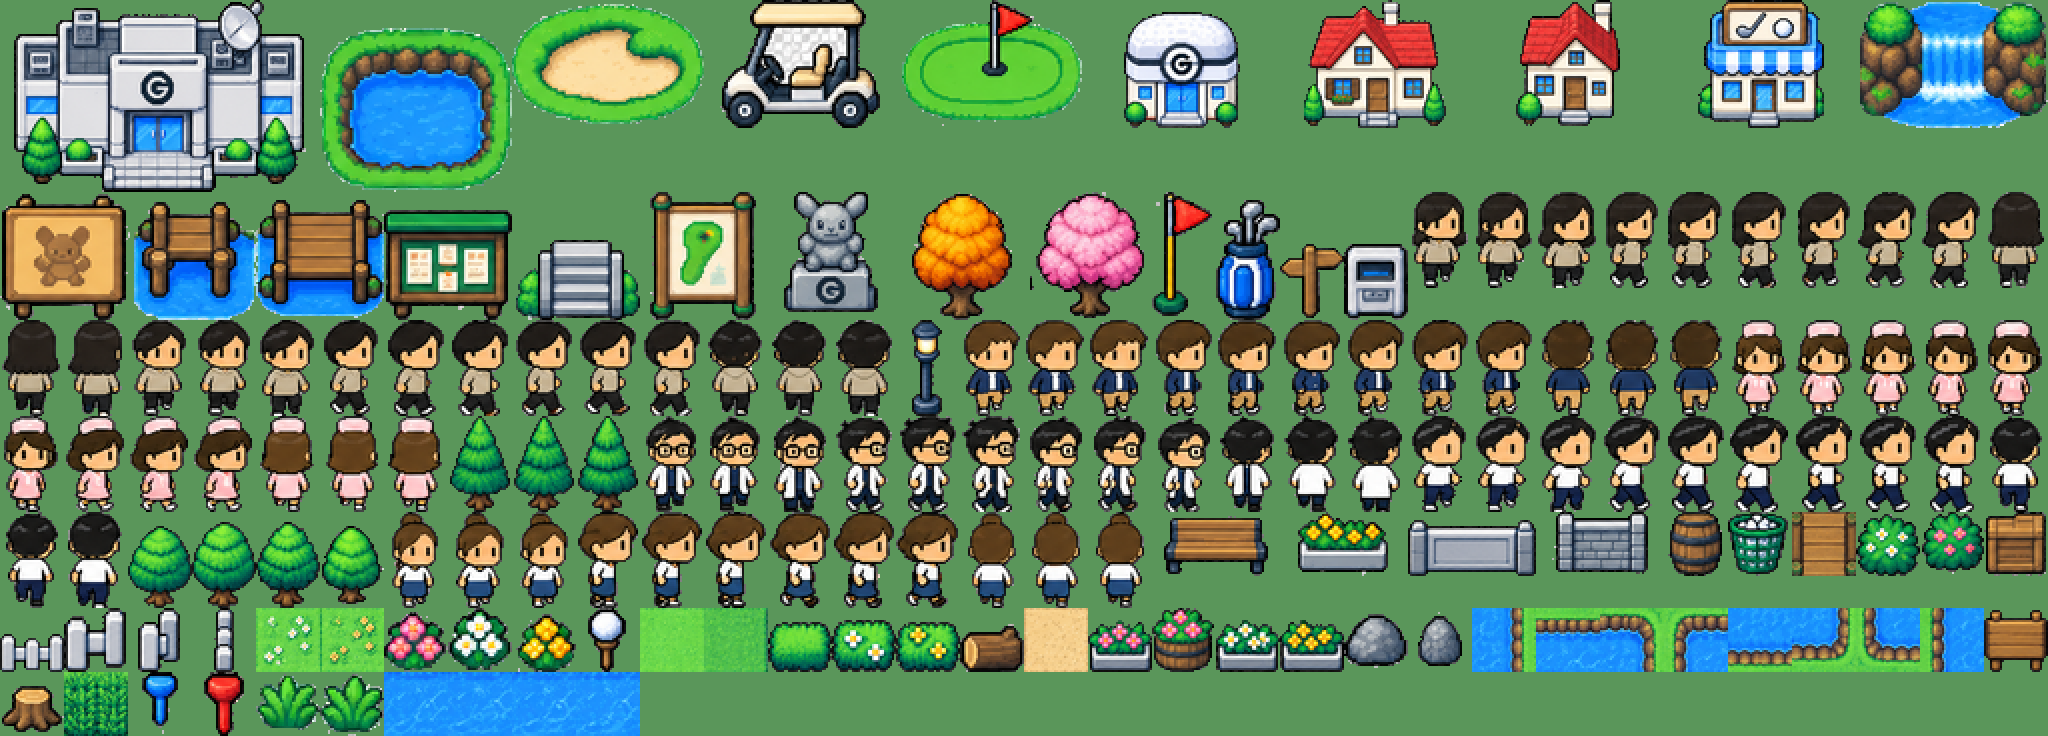
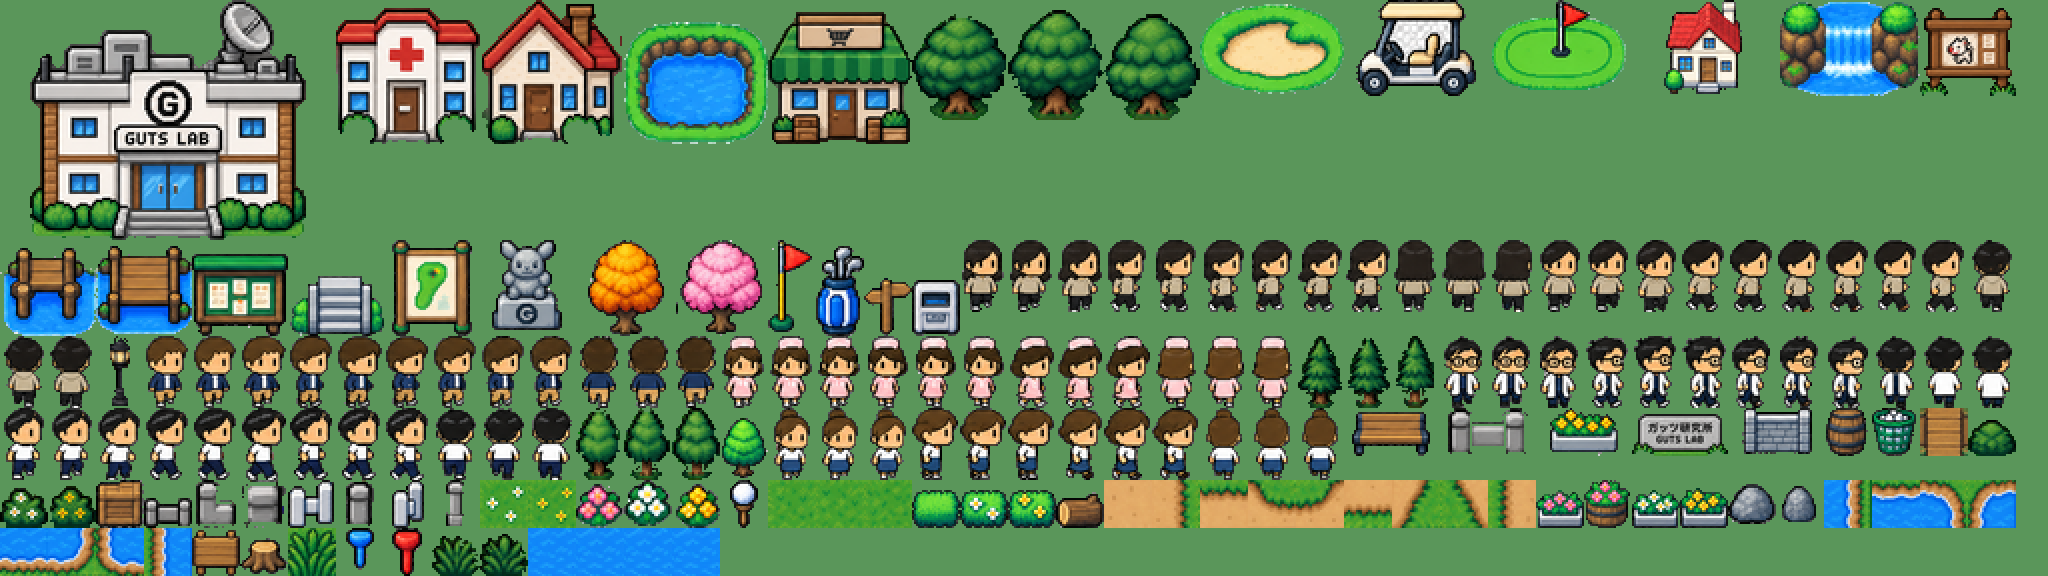
v0.6: 第2弾素材（研究所7×5・家3×3・大木・石の柵・道の境界タイル・新地形）を組み込み。屋外1マス12で横16マス表示、ガーデンロードを横18に拡張
Claude-Session: https://claude.ai/code/session_018VDSYCPciSbMvR8kKaJDnr

diff --git a/js/data.js b/js/data.js
@@ -80,7 +80,7 @@ const DATA = {
         'XXXXXXXXXX',
       ],
       events: [
-        { x: 5, y: 6, kind: 'warp', to: { map: 'town', x: 2, y: 10, dir: 'down' } },
+        { x: 5, y: 6, kind: 'warp', to: { map: 'town', x: 2, y: 11, dir: 'down' } },
         { x: 2, y: 1, kind: 'look', text: 'じぶんの ベッド。\nきょうは よく ねむれた。' },
         { x: 7, y: 1, kind: 'look', text: 'テレビ。ゴルフ中継が ながれている。' },
         { x: 2, y: 3, kind: 'look', text: 'つくえ。ゴルフの スコアカードが おいてある。' },
@@ -91,49 +91,54 @@ const DATA = {
       name: 'ガッツタウン', bgm: 'town',
       rows: [
         'YYYYYYYYYYYYYYYYPYYY',
-        'YGWFWGGGGGfGFgGGPGGY',
-        'YGGGGGGGGGGGGGGGPWGY',
-        'YG===GGGGGGGG===PGGY',
-        'YGGGGGGGPGGGGGGGPGGY',
-        'YGWGQqGGPGGLSGGGPWGY',
-        'YGGLGGGGPGGGGGLGPGGY',
-        'YgPPPPPPPPPPPPPPPPGY',
+        'YGGFGGGGGGGGFgGGPGGY',
+        'YGGGGGGGGGGGGGGGPGGY',
+        'YGGGGGGGGGGGGGGGPGGY',
+        'YGG==GGGGGGGGG==PGGY',
+        'YGGLGGGGGGGGGGLGPGGY',
+        'YGWGQqGGGPGGLSGGPWGY',
+        'YgPGPPPPPPPPPPPPPPGY',
         'YGGGGGPGGGGGGGGGGGGY',
         'YGGGGGPGGGGGWGGGGGYY',
+        'YGGGGGPGGGGGGGGGGGGY',
         'YGPGGGPGGGGGGGGPGGGY',
-        'YGPGGGPGGPGGGGGPGGGY',
         'YGPPPPPPPPPPPPPPPPGY',
         'YFFGGGGolGGGGGGGGGGY',
         'YGGWGfGGGGGGbGGGGWGY',
-        'YYGGGGGGGGGGGGGGGGGY',
+        'YYGGgGGGGGGGGGGGgGGY',
         'YGbGGGkGGtGGFGGtfGGY',
-        'YGGGWGGFGGGWGRGGGWGY',
+        'YYGGGGGFGGfWGRGGGWGY',
         'YGGGGGGGGGGGGGGGGGGY',
         'YYYYYYYYYYYYYYYYYYYY',
       ],
       objects: [
-        { art: 'lab',   x: 6,  y: 1,  w: 5, h: 3, doors: [{ x: 8, y: 3 }] },
-        { art: 'house', x: 1,  y: 8,  w: 3, h: 2, doors: [{ x: 2, y: 9 }] },
-        { art: 'heal',  x: 14, y: 8,  w: 3, h: 2, doors: [{ x: 15, y: 9 }] },
-        { art: 'shop',  x: 8,  y: 9,  w: 3, h: 2, doors: [{ x: 9, y: 10 }] },
+        { art: 'lab',   x: 6,  y: 1,  w: 7, h: 5, doors: [{ x: 9, y: 5 }] },
+        { art: 'house', x: 1,  y: 8,  w: 3, h: 3, doors: [{ x: 2, y: 10 }] },
+        { art: 'heal',  x: 14, y: 8,  w: 3, h: 3, doors: [{ x: 15, y: 10 }] },
+        { art: 'shop',  x: 8,  y: 9,  w: 3, h: 3, doors: [{ x: 9, y: 11 }] },
         { art: 'pond',  x: 13, y: 13, w: 3, h: 3 },
-        { art: 'board_monster', x: 13, y: 5, w: 2, h: 2 },
+        { art: 'board_monster', x: 14, y: 5, w: 2, h: 2 },
         { art: 'bench', x: 3, y: 13, w: 2, h: 1 },
+        { art: 'bigtree', x: 1, y: 1, w: 2, h: 2 },
+        { art: 'bigtree2', x: 17, y: 1, w: 2, h: 2 },
+        { art: 'bigtree3', x: 4, y: 2, w: 2, h: 2 },
+        { art: 'bigtree', x: 9, y: 14, w: 2, h: 2 },
+        { art: 'bigtree2', x: 17, y: 12, w: 2, h: 2 },
       ],
       events: [
-        { x: 2, y: 9, kind: 'warp', to: { map: 'home', x: 5, y: 5, dir: 'up' } },
-        { x: 8, y: 3, kind: 'warp', to: { map: 'lab', x: 5, y: 5, dir: 'up' } },
-        { x: 15, y: 9, kind: 'warp', to: { map: 'heal', x: 4, y: 4, dir: 'up' } },
-        { x: 9, y: 10, kind: 'warp', to: { map: 'shop', x: 4, y: 4, dir: 'up' } },
-        { x: 16, y: 0, kind: 'warp', to: { map: 'road', x: 7, y: 20, dir: 'up' } },
-        { x: 4, y: 5, kind: 'sign', text: 'ガッツ研究所 GUTS LAB' },
-        { x: 5, y: 5, kind: 'sign', text: 'ガッツ研究所 GUTS LAB' },
-        { x: 12, y: 5, kind: 'sign', text: 'ガッツタウン\nゴルフ場の となりの しずかな町' },
-        { x: 13, y: 6, kind: 'look', text: 'モンスターと ゴルフの みらいを けんきゅうする\n―― ガッツ研究所' },
+        { x: 2, y: 10, kind: 'warp', to: { map: 'home', x: 5, y: 5, dir: 'up' } },
+        { x: 9, y: 5, kind: 'warp', to: { map: 'lab', x: 5, y: 5, dir: 'up' } },
+        { x: 15, y: 10, kind: 'warp', to: { map: 'heal', x: 4, y: 4, dir: 'up' } },
+        { x: 9, y: 11, kind: 'warp', to: { map: 'shop', x: 4, y: 4, dir: 'up' } },
+        { x: 16, y: 0, kind: 'warp', to: { map: 'road', x: 9, y: 20, dir: 'up' } },
+        { x: 4, y: 6, kind: 'sign', text: 'ガッツ研究所 GUTS LAB' },
+        { x: 5, y: 6, kind: 'sign', text: 'ガッツ研究所 GUTS LAB' },
+        { x: 13, y: 6, kind: 'sign', text: 'ガッツタウン\nゴルフ場の となりの しずかな町' },
         { x: 14, y: 6, kind: 'look', text: 'モンスターと ゴルフの みらいを けんきゅうする\n―― ガッツ研究所' },
+        { x: 15, y: 6, kind: 'look', text: 'モンスターと ゴルフの みらいを けんきゅうする\n―― ガッツ研究所' },
         { x: 11, y: 8, kind: 'npc', sprite: 'woman', dir: 'down',
           text: '北の ガーデンロードには\nやせいの GUTS MONSTERSが いるのよ。' },
-        { x: 10, y: 15, kind: 'npc', sprite: 'man', dir: 'left',
+        { x: 11, y: 16, kind: 'npc', sprite: 'man', dir: 'left',
           text: 'ここの 芝は ゴルフ場と おなじ\n手入れを しているんだ。' },
         { x: 16, y: 1, kind: 'trigger', id: 'townExit' },
       ],
@@ -151,7 +156,7 @@ const DATA = {
         'XXXXXXXXXXXX',
       ],
       events: [
-        { x: 5, y: 6, kind: 'warp', to: { map: 'town', x: 8, y: 4, dir: 'down' } },
+        { x: 5, y: 6, kind: 'warp', to: { map: 'town', x: 9, y: 6, dir: 'down' } },
         { x: 5, y: 2, kind: 'npc', sprite: 'prof', dir: 'down', name: 'オクムラ博士', prof: true },
         { x: 4, y: 3, kind: 'starter', id: 'hinokapi', unless: 'starter' },
         { x: 5, y: 3, kind: 'starter', id: 'shibamog', unless: 'starter' },
@@ -172,7 +177,7 @@ const DATA = {
         'XXXXXXXXXX',
       ],
       events: [
-        { x: 5, y: 5, kind: 'warp', to: { map: 'town', x: 15, y: 10, dir: 'down' } },
+        { x: 5, y: 5, kind: 'warp', to: { map: 'town', x: 15, y: 11, dir: 'down' } },
         { x: 4, y: 2, kind: 'npc', sprite: 'nurse', dir: 'down', heal: true, name: 'うけつけ',
           text: 'ようこそ かいふくの いえへ。\nなかまを げんきに してあげますね。' },
       ],
@@ -189,7 +194,7 @@ const DATA = {
         'XXXXXXXXXX',
       ],
       events: [
-        { x: 5, y: 5, kind: 'warp', to: { map: 'town', x: 9, y: 11, dir: 'down' } },
+        { x: 5, y: 5, kind: 'warp', to: { map: 'town', x: 9, y: 12, dir: 'down' } },
         { x: 4, y: 2, kind: 'npc', sprite: 'woman', dir: 'down', name: 'てんいん', shop: true,
           text: 'いらっしゃい！\nきずぐすりなら さしあげますよ。（ショップは じゅんびちゅう）' },
       ],
@@ -197,28 +202,28 @@ const DATA = {
     road: {
       name: 'ガーデンロード', bgm: 'town',   // ※専用曲は未提供のため町の曲を仮使用
       rows: [
-        'YYYYYYYYYYYYYY',
-        'YGGGGGSPGGGGGY',
-        'YGGGGGGPGGFGGY',
-        'YGGWGGGPGGGGGY',
-        'YGTTTGGPGGWGGY',
-        'YGTTTGGPGTTTGY',
-        'YGTTTGGPGTTTGY',
-        'YGGGGGGPGTTTGY',
-        'YGFGGGGPGGGGGY',
-        'YGGGGGGPGGGGGY',
-        'Y~~~~~~B~~~~~Y',
-        'Y~~~~~~B~~~~~Y',
-        'YGGWGGGPGGGGGY',
-        'YGGGGGGPGGTTGY',
-        'YGTTTGGPGGTTGY',
-        'YGTTGGGPGGGGGY',
-        'YGGGGGGPGGWGGY',
-        'YGGGGGGPGGSGGY',
-        'YGFGGGGPGGGGGY',
-        'YGGGGGGPGGGGGY',
-        'YGGGGGGPGGGGGY',
-        'YYYYYYYPYYYYYY',
+        'YYYYYYYYYYYYYYYYYY',
+        'YGGGGGGGSPGGGGGGGY',
+        'YGGGGGGGGPGGFGGGGY',
+        'YGGGGWGGGPGGGGGGGY',
+        'YGGGTTTGGPGGWGGGGY',
+        'YGGGTTTGGPGTTTGGGY',
+        'YGGGTTTGGPGTTTGGGY',
+        'YGGGGGGGGPGTTTGGGY',
+        'YGGGFGGGGPGGGGGGGY',
+        'YGGGGGGGGPGGGGGGGY',
+        'Y~~~~~~~~B~~~~~~~Y',
+        'Y~~~~~~~~B~~~~~~~Y',
+        'YGGGGWGGGPGGGGGGGY',
+        'YGGGGGGGGPGGTTGGGY',
+        'YGGGTTTGGPGGTTGGGY',
+        'YGGGTTGGGPGGGGGGGY',
+        'YGGGGGGGGPGGWGGGGY',
+        'YGGGGGGGGPGGSGGGGY',
+        'YGGGFGGGGPGGGGGGGY',
+        'YGGGGGGGGPGGGGGGGY',
+        'YGGGGGGGGPGGGGGGGY',
+        'YYYYYYYYYYYYYYYYYY',
       ],
       encounters: [
         { id: 'hinokapi', level: [3, 5], weight: 3 },
@@ -226,10 +231,10 @@ const DATA = {
         { id: 'amepiyo',  level: [3, 5], weight: 3 },
       ],
       events: [
-        { x: 7, y: 21, kind: 'warp', to: { map: 'town', x: 16, y: 1, dir: 'down' } },
-        { x: 10, y: 17, kind: 'sign', text: 'ガーデンロード\n草むらに 注意' },
-        { x: 6, y: 1, kind: 'sign', text: 'この先は こうじちゅう\n（次のエリアは 未実装）' },
-        { x: 4, y: 9, kind: 'npc', sprite: 'man', dir: 'right',
+        { x: 9, y: 21, kind: 'warp', to: { map: 'town', x: 16, y: 1, dir: 'down' } },
+        { x: 12, y: 17, kind: 'sign', text: 'ガーデンロード\n草むらに 注意' },
+        { x: 8, y: 1, kind: 'sign', text: 'この先は こうじちゅう\n（次のエリアは 未実装）' },
+        { x: 6, y: 9, kind: 'npc', sprite: 'man', dir: 'right',
           text: '草むらで つかまえた モンスターは\nなかまに なるんだ。（捕獲は 未実装）' },
       ],
     },

diff --git a/js/scenes/field.js b/js/scenes/field.js
@@ -295,6 +295,14 @@ class FieldScene {
     if (n) return 'shore_n'; if (s) return 'shore_s'; if (wl) return 'shore_w'; if (e) return 'shore_e';
     return null;
   }
+  // 道の自動タイル：芝に接する辺・角で境界タイルを選ぶ
+  pathTile(tx, ty) {
+    const p = (x, y) => { const t = this.tileAt(x, y); return t === 'P' || t === 'B' || t === ' '; };
+    const n = !p(tx, ty - 1), s = !p(tx, ty + 1), w = !p(tx - 1, ty), e = !p(tx + 1, ty);
+    if (n && w) return 'path_nw'; if (n && e) return 'path_ne'; if (s && w) return 'path_sw'; if (s && e) return 'path_se';
+    if (n) return 'path_n'; if (s) return 'path_s'; if (w) return 'path_w'; if (e) return 'path_e';
+    return 'path';
+  }
   fenceTile(tx, ty) {
     const f = (x, y) => this.tileAt(x, y) === '=';
     const l = f(tx - 1, ty), r = f(tx + 1, ty);
@@ -338,6 +346,7 @@ class FieldScene {
         // 下地
         const base = DATA.ATLAS_BASE[t];
         if (base === 'water') { Atlas.draw(ctx, this.waterTile(tx, ty) || `water${waterFrame}`, px, py); }
+        else if (base === 'path') { const pt = this.pathTile(tx, ty); Atlas.draw(ctx, Atlas.has(pt) ? pt : 'path', px, py); }
         else if (base) Atlas.draw(ctx, base, px, py);
         else Atlas.draw(ctx, 'grass', px, py);
         // 上に載る小物（奥行き順）
@@ -353,7 +362,7 @@ class FieldScene {
     // 大きな建物・オブジェクト（足元の y で並べる）
     for (const o of (this.map.objects || [])) {
       const px = o.x * T - camX + bx, py = o.y * T - camY + by;
-      if (useAtlas && Atlas.has(o.art)) sprites.push({ y: (o.y + o.h) * T - 1, fn: () => Atlas.draw(ctx, o.art, px, py) });
+      if (useAtlas && Atlas.has(o.art)) { const sz = Atlas.size(o.art); const dy = (o.y + o.h) * T - camY + by - sz.h; sprites.push({ y: (o.y + o.h) * T - 1, fn: () => Atlas.draw(ctx, o.art, px, dy) }); }
       else ctx.drawImage(Gfx.get(o.art), px, py, o.w * T, o.h * T);
     }
     // イベント（ボール・NPC）

diff --git a/tools/smoke-test.js b/tools/smoke-test.js
@@ -67,7 +67,7 @@ const server = http.createServer((req, res) => {
   await page.evaluate(() => { Game.state.x = 16; Game.state.y = 3; Game.state.dir = 'up'; });
   await walk('up'); await walk('up'); await tap('a'); await page.waitForTimeout(400); await shot('09_blocked'); await advance();
   // 研究所へ
-  await page.evaluate(() => { Game.state.x = 8; Game.state.y = 4; Game.state.dir = 'up'; });
+  await page.evaluate(() => { Game.state.x = 9; Game.state.y = 6; Game.state.dir = 'up'; });
   await walk('up'); await page.waitForTimeout(400); await shot('10_lab'); console.log('lab:', await st()); await page.waitForTimeout(800); console.log('bgm@lab:', await snd()); await advance(40); await shot('10b_lab_after_intro');
   await walk('up'); await walk('up'); await tap('a'); await page.waitForTimeout(300); await shot('11_prof'); await advance();
   await walk('left'); await tap('a'); await page.waitForTimeout(600); await shot('12_starter_ask');
@@ -90,7 +90,7 @@ const server = http.createServer((req, res) => {
   // ガーデンロードへ
   await page.evaluate(() => { Game.state.x = 16; Game.state.y = 2; Game.state.dir = 'up'; });
   await walk('up'); await walk('up'); await page.waitForTimeout(300); await shot('22_road'); console.log('road:', await st());
-  await page.evaluate(() => { CONFIG.ENCOUNTER_RATE = 100; Game.state.grace = 0; Game.state.x = 2; Game.state.y = 3; Game.state.dir = 'down'; });
+  await page.evaluate(() => { CONFIG.ENCOUNTER_RATE = 100; Game.state.grace = 0; Game.state.x = 4; Game.state.y = 3; Game.state.dir = 'down'; });
   await walk('down'); await page.waitForTimeout(500); await shot('23_wild'); console.log('wild:', await st()); console.log('bgm@wild:', await snd());
   await finishBattle(); await advance(); console.log('after wild:', await st()); await page.waitForTimeout(600); console.log('bgm@after wild:', await snd());
   // 回復の家

diff --git a/js/config.js b/js/config.js
@@ -2,9 +2,9 @@
 // 基本設定
 // ============================================================
 const CONFIG = {
-  W: 192,            // フィールド内部解像度（12マス）
-  H: 208,            // 13マス
-  TILE: 16,          // 1マス（論理px）。素材は32pxで2倍描画
+  W: 192,            // フィールド内部解像度（屋外16マス）
+  H: 208,            // 屋外 約17マス
+  TILE: 12,          // 屋外1マス（論理px）。素材は24pxで2倍描画。画面は横16マス
   TILE_INDOOR: 16,
   FPS: 60,
   WALK_FRAMES: 8,

diff --git a/tools/extract-atlas.py b/tools/extract-atlas.py
@@ -6,11 +6,15 @@ sys.path.insert(0, os.path.dirname(os.path.abspath(__file__)))
 from PIL import Image
 import numpy as np
 from cut import keyout
+from cut2 import keyout_dark, keyout_blur
 
-U = int(os.environ.get('TILE_PX', '32'))   # 1タイルのpx（画面は2倍描画なので論理px = U/2）
+U = int(os.environ.get('TILE_PX', '24'))   # 1タイルのpx（画面は2倍描画なので論理px = U/2）
 OUT = os.path.join(os.path.dirname(os.path.dirname(os.path.abspath(__file__))), 'assets')
 SHEETS = os.path.join(OUT, 'sheets')
 sheets = {n: keyout(f'{SHEETS}/{n}.png')[0] for n in ['terrain', 'props', 'objects', 'chars']}
+sheets['trees2'] = keyout_dark(f'{SHEETS}/trees2.png')[0]
+sheets['bld2'] = keyout_blur(f'{SHEETS}/bld2.png', close=8)[0]
+_t2 = Image.open(f'{SHEETS}/terrain2.png').convert('RGBA'); sheets['terrain2'] = _t2
 
 def tight(img, box):
     """箱内の不透明ピクセルの外接矩形（黒ラベルは除外）"""
@@ -44,7 +48,7 @@ def add(name, sheet, box, tw, th, mode='fit', align='bottom'):
     if mode == 'fit': img = tight(sheets[sheet], box)
     else:
         # 地形：素材の外枠線（濃い縁）を落とすため内側 5% を使う
-        x0, y0, x1, y1 = box; mx = int((x1 - x0) * 0.05); my = int((y1 - y0) * 0.05)
+        x0, y0, x1, y1 = box; mx = int((x1 - x0) * 0.08); my = int((y1 - y0) * 0.08)
         img = sheets[sheet].crop((x0 + mx, y0 + my, x1 - mx, y1 - my))
     items[name] = fit(img, int(tw * U), int(th * U), align, mode)
 
@@ -132,6 +136,35 @@ add('flag', O, (932, 835, 1011, 996), 1, 2)
 add('planter_round', O, (1018, 874, 1127, 990), 1, 1)
 add('planter_long', O, (1153, 889, 1302, 995), 2, 1)
 add('statue', O, (1374, 829, 1499, 995), 2, 2)
+
+# ---------------- 第2弾：地形（terrain2、グリッド指定） ----------------
+T2 = 'terrain2'
+_rows = {1: (90, 264, [58, 296, 542, 800, 1048, 1298], 174), 2: (343, 467, [57, 223, 383, 545, 705, 863, 1023, 1183, 1345], 124),
+         3: (538, 690, [58, 246, 428, 610, 793, 973, 1145, 1325], 150), 4: (757, 907, [62, 244, 426, 610, 793, 973, 1146], 150)}
+def t2box(r, i): y0, y1, xs, w = _rows[r]; return (xs[i], y0, xs[i] + w, y1)
+add('grass', T2, t2box(1, 0), 1, 1, 'fill'); add('grass2', T2, t2box(1, 1), 1, 1, 'fill'); add('grass3', T2, t2box(1, 2), 1, 1, 'fill')
+add('flower_w', T2, t2box(1, 3), 1, 1, 'fill'); add('flower_y', T2, t2box(1, 4), 1, 1, 'fill'); add('tall', T2, t2box(1, 5), 1, 1, 'fill')
+add('path', T2, t2box(2, 0), 1, 1, 'fill')
+for n, i in zip(['path_n', 'path_s', 'path_w', 'path_e', 'path_nw', 'path_ne', 'path_sw', 'path_se'], range(1, 9)): add(n, T2, t2box(2, i), 1, 1, 'fill')
+for i in range(4): add(f'water{i}', T2, t2box(3, 0), 1, 1, 'fill')
+add('shore_n', T2, t2box(3, 1), 1, 1, 'fill'); add('shore_s', T2, t2box(3, 2), 1, 1, 'fill'); add('shore_w', T2, t2box(3, 3), 1, 1, 'fill'); add('shore_e', T2, t2box(3, 4), 1, 1, 'fill')
+add('shore_nw', T2, t2box(3, 5), 1, 1, 'fill'); add('shore_ne', T2, t2box(3, 6), 1, 1, 'fill'); add('shore_sw', T2, t2box(4, 4), 1, 1, 'fill'); add('shore_se', T2, t2box(4, 6), 1, 1, 'fill')
+
+# ---------------- 第2弾：木・柵・街灯（trees2） ----------------
+R = 'trees2'
+add('bigtree', R, (20, 57, 308, 376), 2, 2.5); add('bigtree2', R, (324, 57, 603, 376), 2, 2.5); add('bigtree3', R, (619, 68, 900, 376), 2, 2.5)
+add('pine', R, (919, 144, 1053, 363), 1, 1.5); add('pine2', R, (1062, 144, 1197, 363), 1, 1.5); add('pine3', R, (1211, 145, 1348, 372), 1, 1.5)
+add('tree', R, (1367, 172, 1491, 364), 1, 1.5); add('tree2', R, (1492, 174, 1618, 368), 1, 1.5); add('tree3', R, (1618, 174, 1745, 368), 1, 1.5)
+add('fence_v', R, (768, 410, 856, 613), 1, 1); add('lamp', R, (1268, 399, 1358, 652), 1, 1.5)
+add('fence', R, (96, 495, 280, 613), 1, 1); add('fence_post', R, (322, 472, 405, 612), 1, 1); add('fence2', R, (461, 474, 692, 614), 2, 1)
+add('fence_corner', R, (916, 476, 1034, 614), 1, 1); add('fence_end', R, (1090, 519, 1178, 613), 1, 1)
+add('bush', R, (95, 682, 279, 825), 1, 1); add('tuft', R, (328, 682, 498, 825), 1, 1); add('bush_flower', R, (550, 697, 699, 825), 1, 1)
+add('bush_flower_y', R, (760, 698, 906, 825), 1, 1); add('tuft2', R, (971, 684, 1135, 825), 1, 1)
+
+# ---------------- 第2弾：建物（bld2） ----------------
+Bd = 'bld2'
+add('lab', Bd, (40, 75, 622, 583), 7, 5); add('house', Bd, (626, 75, 892, 583), 3, 3); add('heal', Bd, (895, 75, 1179, 583), 3, 3); add('shop', Bd, (1184, 276, 1497, 565), 3, 3)
+add('board_monster', Bd, (514, 655, 813, 932), 2, 2); add('stone_sign', Bd, (92, 702, 466, 870), 2, 1)
 
 # ---------------- キャラクター（chars） ----------------
 C = 'chars'

diff --git a/tools/cut2.py b/tools/cut2.py
@@ -1,0 +1,57 @@
+"""背景が黒・暗いグラデーション・ぼかしのシートから、パーツを切り出す"""
+import sys, json
+from PIL import Image, ImageDraw
+import numpy as np
+from scipy import ndimage
+
+def keyout_dark(path, thr=9, outline_lum=0):
+    """暗い背景（黒〜暗いグロー）：外周からつながる暗い領域を背景にし、
+       スプライトに隣接する暗い画素は輪郭として復元する"""
+    a = np.array(Image.open(path).convert('RGB')).astype(int)
+    lum = a.max(2)
+    dark = lum < thr
+    lab, n = ndimage.label(dark)
+    border = set(np.unique(np.concatenate([lab[0], lab[-1], lab[:, 0], lab[:, -1]]))); border.discard(0)
+    bg = np.isin(lab, list(border))
+    fg = ~bg
+    # 輪郭の復元：前景を2px広げた範囲で、暗い画素は輪郭色にする
+    grown = ndimage.binary_dilation(fg, iterations=1)
+    edge = grown & ~fg & (lum < outline_lum)
+    out = a.copy()
+    out[edge] = [31, 42, 30]
+    alpha = np.where(fg | edge, 255, 0).astype(np.uint8)
+    return Image.fromarray(np.dstack([out.astype(np.uint8), alpha]), 'RGBA'), (fg | edge)
+
+def keyout_blur(path, win=7, thr=18, close=4):
+    """ぼかし背景：局所分散が大きい（ドット模様がある）領域を前景にする"""
+    a = np.array(Image.open(path).convert('RGB')).astype(float)
+    g = a.mean(2)
+    m = ndimage.uniform_filter(g, win); m2 = ndimage.uniform_filter(g * g, win)
+    sd = np.sqrt(np.maximum(m2 - m * m, 0))
+    fg = sd > thr
+    fg = ndimage.binary_closing(fg, iterations=close)
+    fg = ndimage.binary_fill_holes(fg)
+    fg = ndimage.binary_opening(fg, iterations=3)
+    alpha = np.where(fg, 255, 0).astype(np.uint8)
+    return Image.fromarray(np.dstack([a.astype(np.uint8), alpha]), 'RGBA'), fg
+
+def components(mask, dilate=3, min_area=200):
+    m = ndimage.binary_dilation(mask, iterations=dilate)
+    lab, n = ndimage.label(m)
+    boxes = []
+    for sl in ndimage.find_objects(lab):
+        if mask[sl].sum() < min_area: continue
+        boxes.append((sl[1].start, sl[0].start, sl[1].stop, sl[0].stop))
+    return boxes
+
+if __name__ == '__main__':
+    name, kind = sys.argv[1], sys.argv[2]
+    img, mask = keyout_dark(f'sheets/{name}.png') if kind == 'dark' else keyout_blur(f'sheets/{name}.png', close=int(sys.argv[3]) if len(sys.argv) > 3 else 4)
+    img.save(f'sheets/{name}_rgba.png')
+    boxes = components(mask)
+    boxes.sort(key=lambda b: (round(b[1] / 80), b[0]))
+    ov = img.convert('RGB').copy(); d = ImageDraw.Draw(ov)
+    for i, b in enumerate(boxes): d.rectangle(b, outline=(255, 0, 0), width=2); d.text((b[0] + 2, b[1] + 2), str(i), fill=(255, 0, 0))
+    ov.save(f'sheets/{name}_boxes.png'); json.dump(boxes, open(f'sheets/{name}_boxes.json', 'w'))
+    print(name, len(boxes))
+    for i, b in enumerate(boxes): print(i, b, b[2] - b[0], b[3] - b[1])
